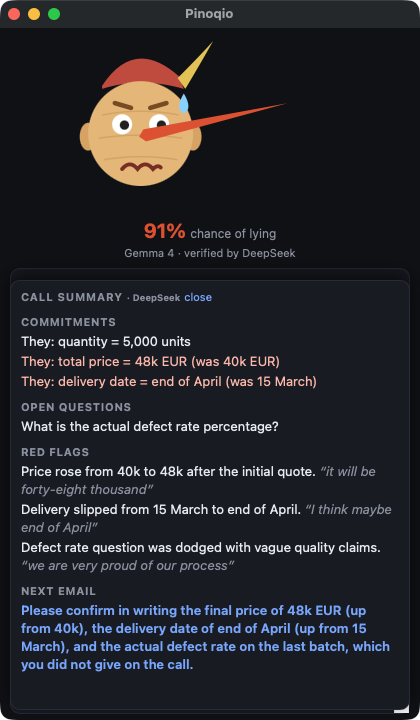
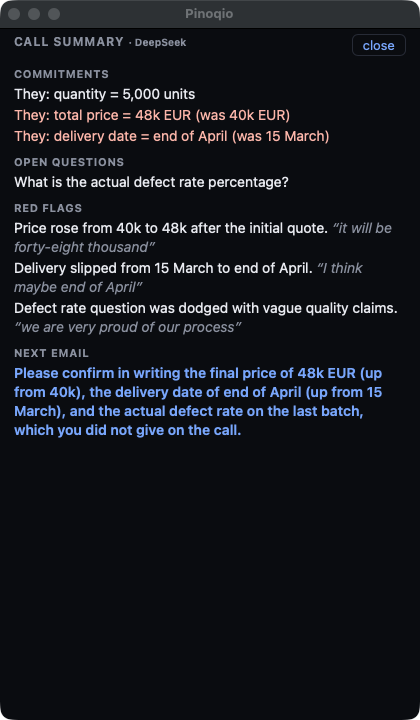
feat(copilot): call summary as full-height overlay

diff --git a/copilot/pinoqio/ui/index.html b/copilot/pinoqio/ui/index.html
@@ -47,9 +47,11 @@
   .hidden { display:none; }
   #foot { flex:none; display:flex; justify-content:center; gap:12px; align-items:center; }
   .link { background:none; border:0; color:var(--accent); font-size:11px; cursor:pointer; padding:0; }
-  /* sheet over the lower panels: the puppet and badge stay visible, the summary gets the full height */
-  #summary { position:fixed; left:10px; right:10px; top:252px; bottom:10px; z-index:5; font-size:13px; box-shadow:0 -6px 18px #000a; }
-  #summary h3 { position:sticky; top:-8px; background:var(--card); padding:2px 0; margin-top:-2px; }
+  /* full-height overlay on a dark backdrop; close returns to the live view */
+  #summary { position:fixed; inset:0; z-index:5; border-radius:0; border:0; padding:12px 14px; font-size:14px;
+    background:rgb(10,12,16); }
+  #summary h3 { position:sticky; top:-12px; background:rgb(10,12,16); padding:6px 0 8px; margin:-12px 0 6px; font-size:12px; z-index:1; }
+  #summary h3 .link { float:right; font-size:13px; border:1px solid var(--line); border-radius:6px; padding:2px 10px; }
   #summary h3 small { text-transform:none; letter-spacing:0; }
   #sum-body h4 { margin:8px 0 2px; font-size:11px; color:var(--mute); text-transform:uppercase; letter-spacing:.06em; }
   #sum-body div { padding:1px 0; }
